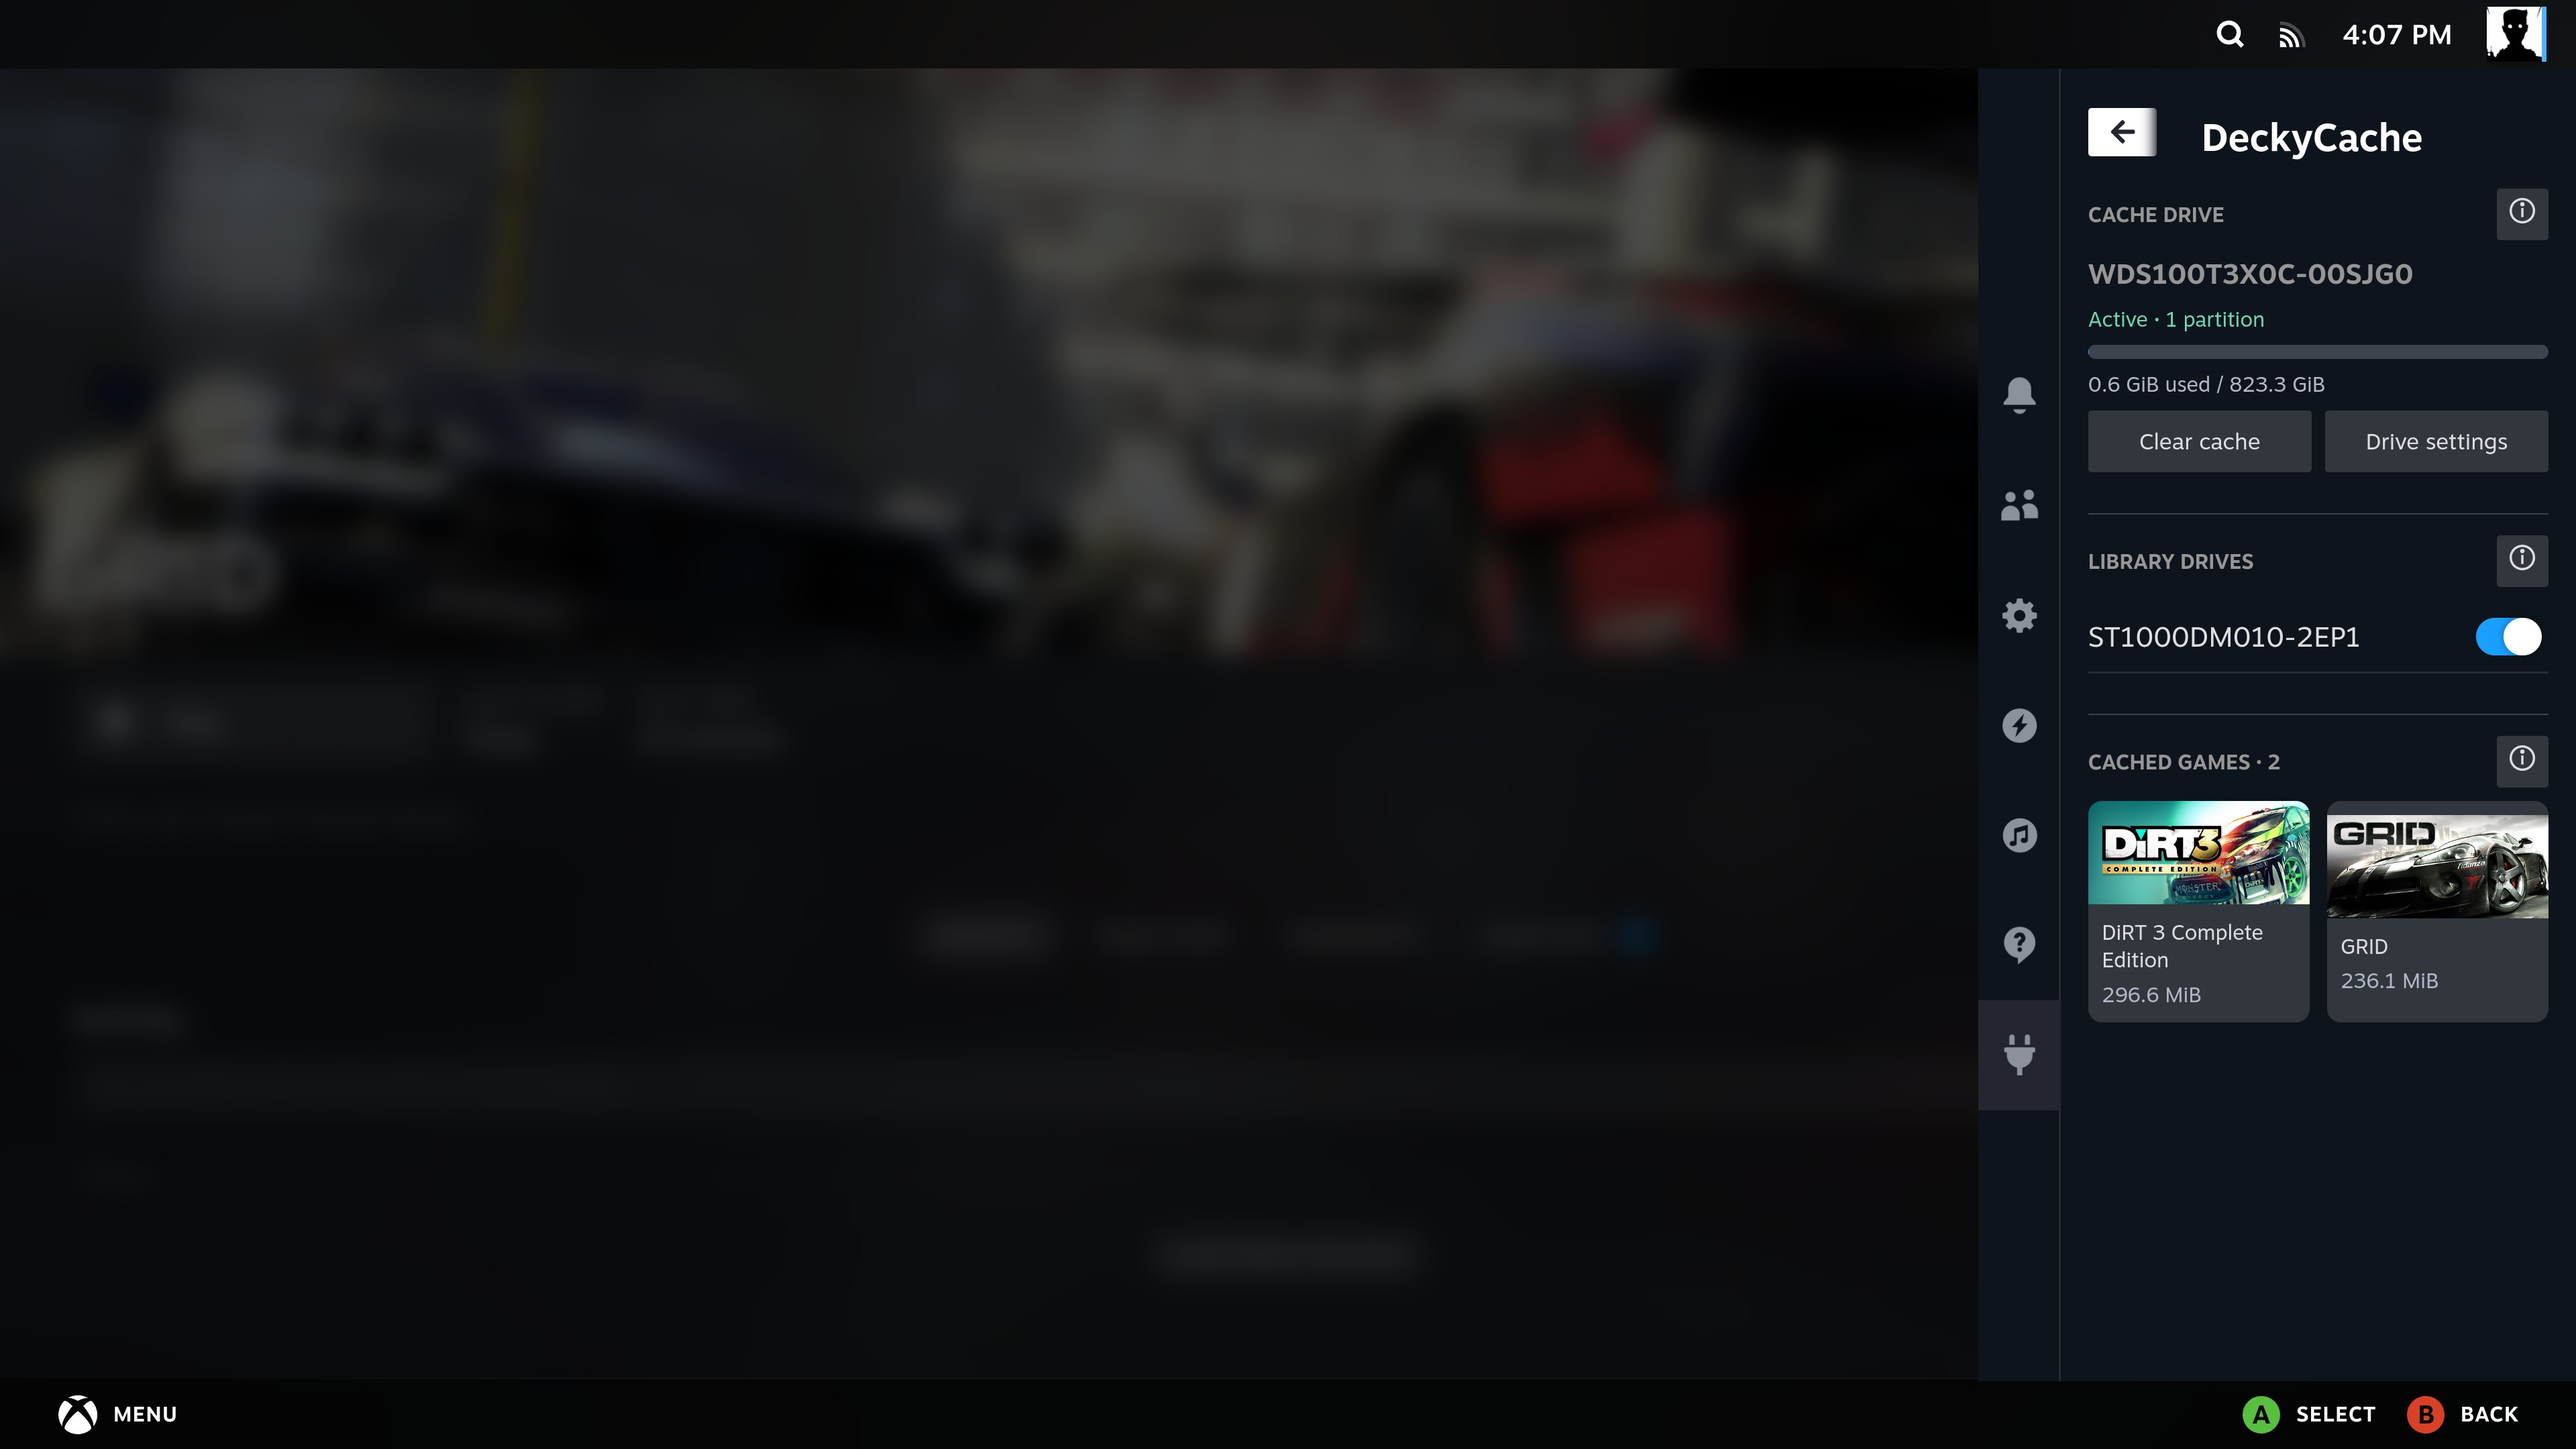
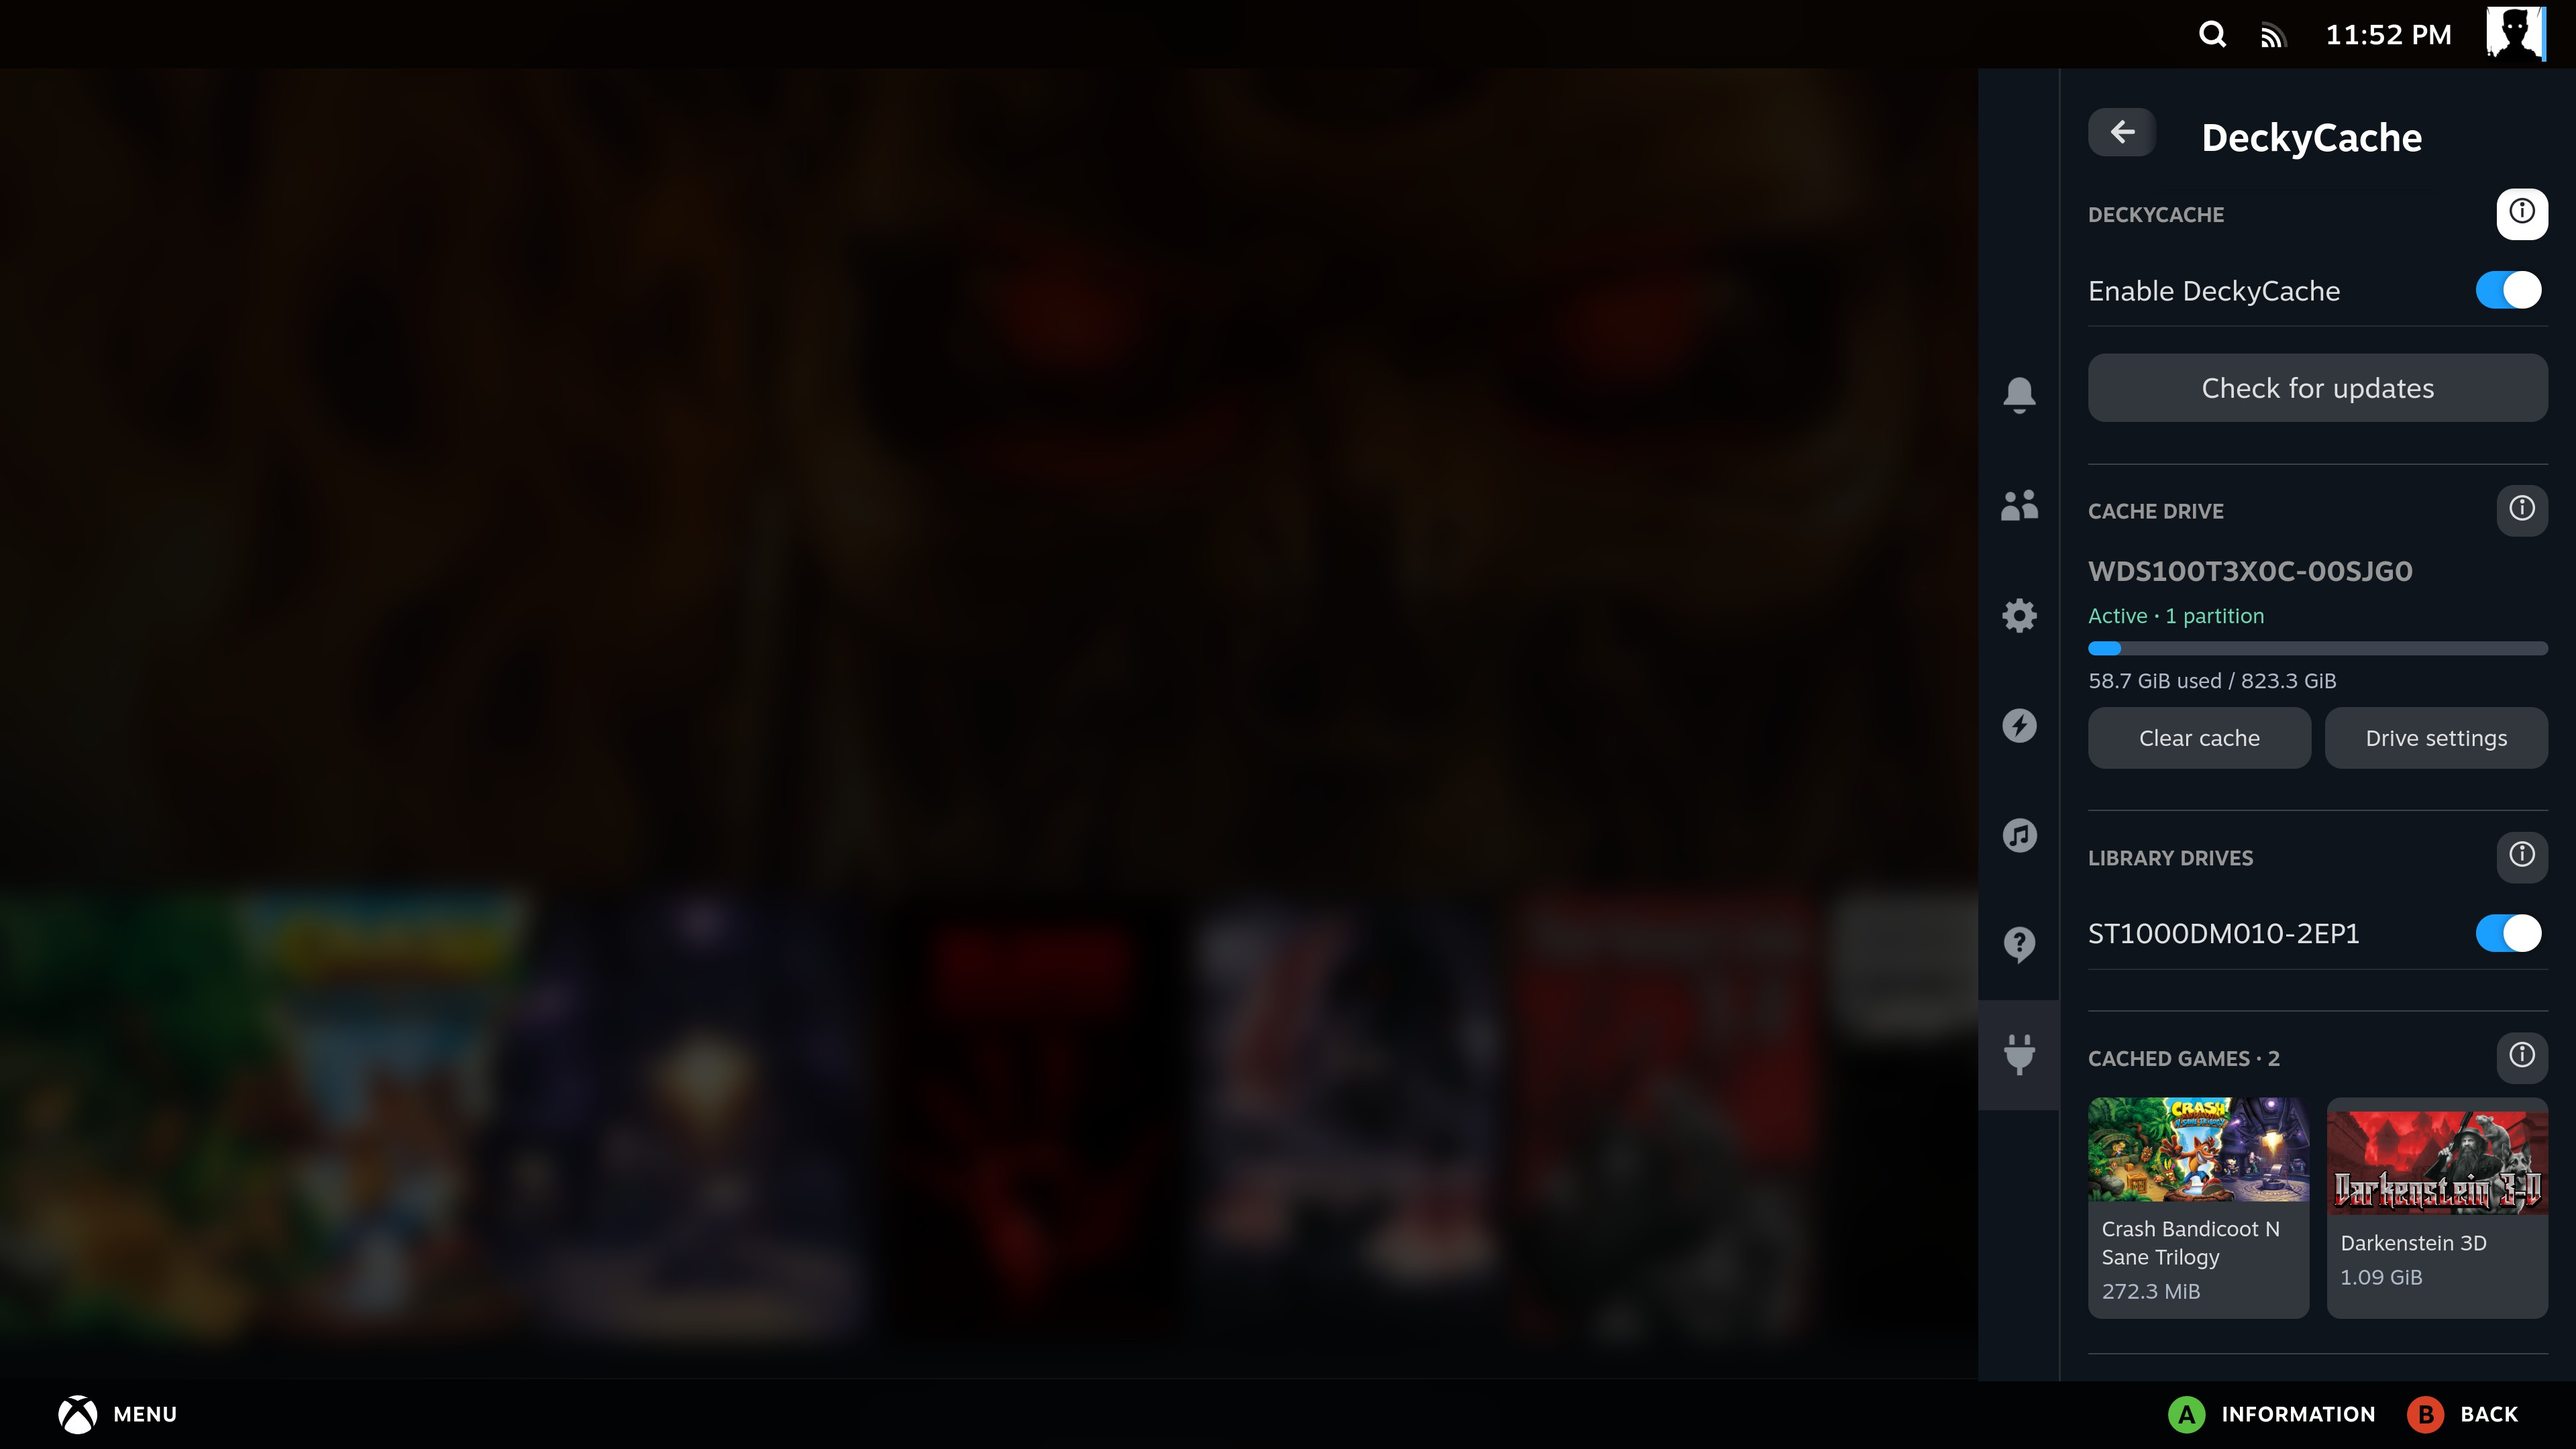
Refresh panel screenshot with master switch and updater

diff --git a/README.md b/README.md
@@ -38,7 +38,7 @@ blocks on the faster drive while the original games and Steam updates stay on th
 - **Clear cache:** remove cached copies without formatting the NVMe or deleting games.
 - **A compact controller-friendly panel:** short labels, section dividers and details behind information buttons.
 
-![DeckyCache showing cached games and library controls](docs/images/cached-games.jpg)
+![DeckyCache with the master switch, update button and cached games](docs/images/cached-games.jpg)
 
 ## Download and install
 

diff --git a/docs/guide/Daily-Use.md b/docs/guide/Daily-Use.md
@@ -2,7 +2,7 @@
 
 ## The main panel
 
-![Cache usage, library switch and cached game tiles](../images/cached-games.jpg)
+![Master switch, update button, cache usage and cached game tiles](../images/cached-games.jpg)
 
 - **Enable DeckyCache:** turn caching on or temporarily bypass it.
 - **Check for updates:** find a compatible GitHub release and open Decky's installer.
